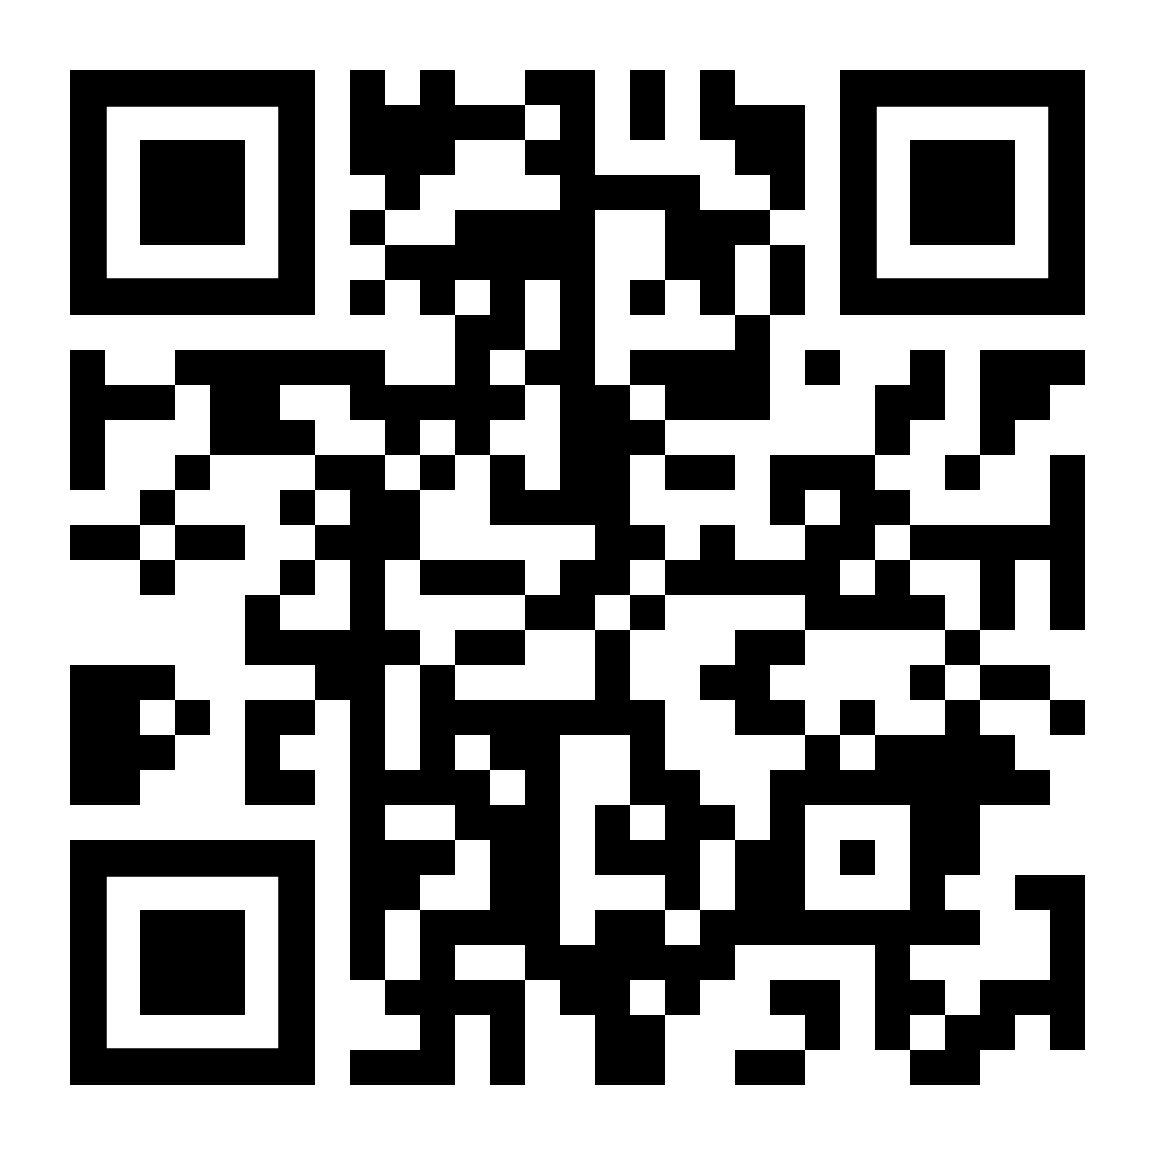
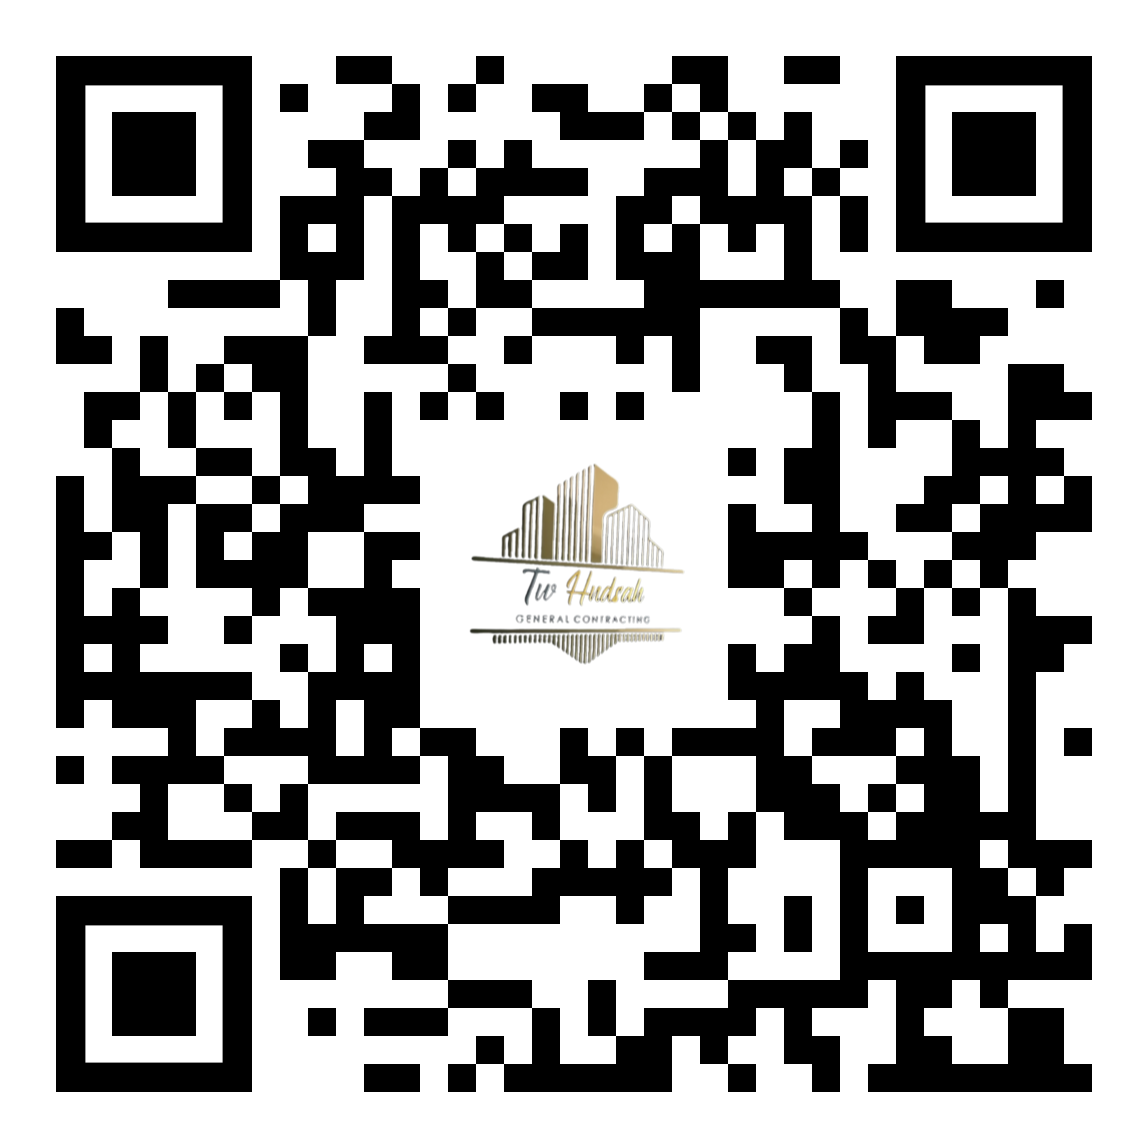
update selawi

diff --git a/selawi/index.html b/selawi/index.html
@@ -42,20 +42,32 @@
 <!-- End Google Tag Manager for WordPress by gtm4wp.com --><meta property="og:locale" content="he_IL">
 <meta property="og:type" content="article">
 <meta property="og:title" content="ת.ו הנדסה ניהול ושיפוצים ">
-<meta property="og:description" content="">
+<meta property="og:description" content="חברת ת.ו הנדסה, ניהול ושיפוצים (בהנהלת אמיר סילאוי שהוא הנדסאי בניין ומנהל עבודה בתחום הבנייה וגם קבלן רשום) היא חברה מובילה בתחום ההנדסה, הבנייה, והשיפוצים. החברה מתמחה בספק שירותי תכנון, בנייה, ותחזוקה למגוון פרויקטים בתחום הבנייה, כולל בתי מגורים, מבני תעשייה, משרדים ופרויקטים מסחריים.
+
+עם יותר מ-10 שנות ניסיון בתחום, אנו מתמחים בבנייה של מבנים חדשים, שיפוץ של מבנים קיימים, התקנת גבס, צבע, עבודות ריצוף, אינסטלציה חשמלית, וגם בעבודות הריסה. המטרה שלנו היא לספק ללקוחותינו פתרונות איכותיים ומותאמים אישית, בתקציבים יעילים ובמסגרת זמנית משום שאנו מבינים את החשיבות שבהשלמת כל פרויקט בהצלחה.
+
+הצוות שלנו מורכב ממומחים בתחום ההנדסה והבנייה שמשמעותם ליישם פתרונות מתקדמים, לשמור על איכות גבוהה, ולעמוד בסטנדרטים נגיעים של בטיחות ותקנות. אנו מתחייבים לשירות לקוחות יעיל ולשתף אותך בכל שלב של הפרויקט, מתכנון ועד לסיום.">
 <meta property="og:site_name" content="Eye On Media">
 <meta property="og:image:width" content="250">
 <meta property="og:image:height" content="250">
 
 	<!-- This site is optimized with the Yoast SEO plugin v21.5 - https://yoast.com/wordpress/plugins/seo/ -->
 	<title>ת.ו הנדסה ניהול ושיפוצים </title>
-	<meta name="description" content="">
+	<meta name="description" content="חברת ת.ו הנדסה, ניהול ושיפוצים (בהנהלת אמיר סילאוי שהוא הנדסאי בניין ומנהל עבודה בתחום הבנייה וגם קבלן רשום) היא חברה מובילה בתחום ההנדסה, הבנייה, והשיפוצים. החברה מתמחה בספק שירותי תכנון, בנייה, ותחזוקה למגוון פרויקטים בתחום הבנייה, כולל בתי מגורים, מבני תעשייה, משרדים ופרויקטים מסחריים.
+
+    עם יותר מ-10 שנות ניסיון בתחום, אנו מתמחים בבנייה של מבנים חדשים, שיפוץ של מבנים קיימים, התקנת גבס, צבע, עבודות ריצוף, אינסטלציה חשמלית, וגם בעבודות הריסה. המטרה שלנו היא לספק ללקוחותינו פתרונות איכותיים ומותאמים אישית, בתקציבים יעילים ובמסגרת זמנית משום שאנו מבינים את החשיבות שבהשלמת כל פרויקט בהצלחה.
+    
+    הצוות שלנו מורכב ממומחים בתחום ההנדסה והבנייה שמשמעותם ליישם פתרונות מתקדמים, לשמור על איכות גבוהה, ולעמוד בסטנדרטים נגיעים של בטיחות ותקנות. אנו מתחייבים לשירות לקוחות יעיל ולשתף אותך בכל שלב של הפרויקט, מתכנון ועד לסיום.">
 	
                 <link rel="canonical" href="https://www.eye-on-media.com/selawi/#">
 	<meta property="og:locale" content="he_IL">
 	<meta property="og:type" content="article">
 	<meta property="og:title" content="ת.ו הנדסה ניהול ושיפוצים ">
-	<meta property="og:description" content="">
+	<meta property="og:description" content="חברת ת.ו הנדסה, ניהול ושיפוצים (בהנהלת אמיר סילאוי שהוא הנדסאי בניין ומנהל עבודה בתחום הבנייה וגם קבלן רשום) היא חברה מובילה בתחום ההנדסה, הבנייה, והשיפוצים. החברה מתמחה בספק שירותי תכנון, בנייה, ותחזוקה למגוון פרויקטים בתחום הבנייה, כולל בתי מגורים, מבני תעשייה, משרדים ופרויקטים מסחריים.
+
+    עם יותר מ-10 שנות ניסיון בתחום, אנו מתמחים בבנייה של מבנים חדשים, שיפוץ של מבנים קיימים, התקנת גבס, צבע, עבודות ריצוף, אינסטלציה חשמלית, וגם בעבודות הריסה. המטרה שלנו היא לספק ללקוחותינו פתרונות איכותיים ומותאמים אישית, בתקציבים יעילים ובמסגרת זמנית משום שאנו מבינים את החשיבות שבהשלמת כל פרויקט בהצלחה.
+    
+    הצוות שלנו מורכב ממומחים בתחום ההנדסה והבנייה שמשמעותם ליישם פתרונות מתקדמים, לשמור על איכות גבוהה, ולעמוד בסטנדרטים נגיעים של בטיחות ותקנות. אנו מתחייבים לשירות לקוחות יעיל ולשתף אותך בכל שלב של הפרויקט, מתכנון ועד לסיום.">
 	
      <meta property="og:url" content="https://www.eye-on-media.com/selawi/#">
 	<meta property="og:site_name" content="Eye On Media">
@@ -123,7 +135,7 @@
             data-lang-arabic="قم بمسح الـ QR لمشاركة الكرت">
 
         </p>
-        <img src="assets/images/files/barcode.png" alt="Barcode" style="width: 50%;">
+        <img src="assets/images/files/barcode.png" alt="Barcode" style="width: 65%;">
         <div class="share-section">
             <p class="translatable" data-lang-arabic="او قم بمشاركة هذا الكرت :" data-lang-hebrew="או שתף את הכרטיס :">
                 או שתף את הכרטיס :</p>
@@ -211,12 +223,12 @@
             </h2>
 
             <p class="translatable"
-                data-lang-hebrew="חברת ת.ו הנדסה, ניהול ושיפוצים היא חברה מובילה בתחום ההנדסה, הבנייה, והשיפוצים. החברה מתמחה בספק שירותי תכנון, בנייה, ותחזוקה למגוון פרויקטים בתחום הבנייה, כולל בתי מגורים, מבני תעשייה, משרדים ופרויקטים מסחריים.
+                data-lang-hebrew="חברת ת.ו הנדסה, ניהול ושיפוצים (בהנהלת אמיר סילאוי שהוא הנדסאי בניין ומנהל עבודה בתחום הבנייה וגם קבלן רשום) היא חברה מובילה בתחום ההנדסה, הבנייה, והשיפוצים. החברה מתמחה בספק שירותי תכנון, בנייה, ותחזוקה למגוון פרויקטים בתחום הבנייה, כולל בתי מגורים, מבני תעשייה, משרדים ופרויקטים מסחריים.
 
                 עם יותר מ-10 שנות ניסיון בתחום, אנו מתמחים בבנייה של מבנים חדשים, שיפוץ של מבנים קיימים, התקנת גבס, צבע, עבודות ריצוף, אינסטלציה חשמלית, וגם בעבודות הריסה. המטרה שלנו היא לספק ללקוחותינו פתרונות איכותיים ומותאמים אישית, בתקציבים יעילים ובמסגרת זמנית משום שאנו מבינים את החשיבות שבהשלמת כל פרויקט בהצלחה.
                 
                 הצוות שלנו מורכב ממומחים בתחום ההנדסה והבנייה שמשמעותם ליישם פתרונות מתקדמים, לשמור על איכות גבוהה, ולעמוד בסטנדרטים נגיעים של בטיחות ותקנות. אנו מתחייבים לשירות לקוחות יעיל ולשתף אותך בכל שלב של הפרויקט, מתכנון ועד לסיום."
-                data-lang-arabic="شركة  ت.و. هندسة وإدارة وترميمات  هي شركة رائدة في مجال الهندسة والبناء والترميمات. تختص الشركة في تقديم خدمات التخطيط والبناء والصيانة لمجموعة متنوعة من المشاريع في مجال البناء، بما في ذلك المنازل السكنية، والمباني الصناعية، والمكاتب، والمشاريع التجارية.
+                data-lang-arabic="شركة  ت.و. هندسة وإدارة وترميمات (بإدارة السيد أمير سيلاوي الحاصل على شهادة هندسي بناء ومقاول مسجّل ومدير بناء مؤهل) هي شركة رائدة في مجال الهندسة والبناء والترميمات. تختص الشركة في تقديم خدمات التخطيط والبناء والصيانة لمجموعة متنوعة من المشاريع في مجال البناء، بما في ذلك المنازل السكنية، والمباني الصناعية، والمكاتب، والمشاريع التجارية.
 
                 بفضل أكثر من 10 سنوات من الخبرة في هذا المجال، نحن متخصصون في بناء مباني جديدة، وترميم المباني القائمة، وتركيب الجبس، والدهان، والبلاط والتثبيتات الكهربائية، وأعمال الهدم. هدفنا هو تقديم حلاً عالي الجودة ومصمم حسب احتياجات العملاء، بتكاليف فعالة وفي الإطار الزمني المحدد، لأننا ندرك أهمية انجاز كل مشروع بنجاح.
                 
@@ -227,10 +239,6 @@
         </div>
 
         <div class="services">
-
-           
-
-
             <div class="service-item">
                 <div class="toggle-btn">
                     <span class="service-text translatable" data-lang-hebrew="השירותים שלנו:"
@@ -349,7 +357,7 @@
             
         </div>
                     
-       <iframe width="100%" height="315" src="https://www.youtube.com/embed/IpHn3IB1Mkg" frameborder="0" allowfullscreen></iframe>
+       <iframe width="100%" height="315" src="https://www.youtube.com/embed/qL3QsjWc5Xk" frameborder="0" allowfullscreen></iframe>
         <iframe width="100%" height="315" src="https://www.youtube.com/embed/P_Y4DxqxAf4" frameborder="0" allowfullscreen></iframe> 
 
       
